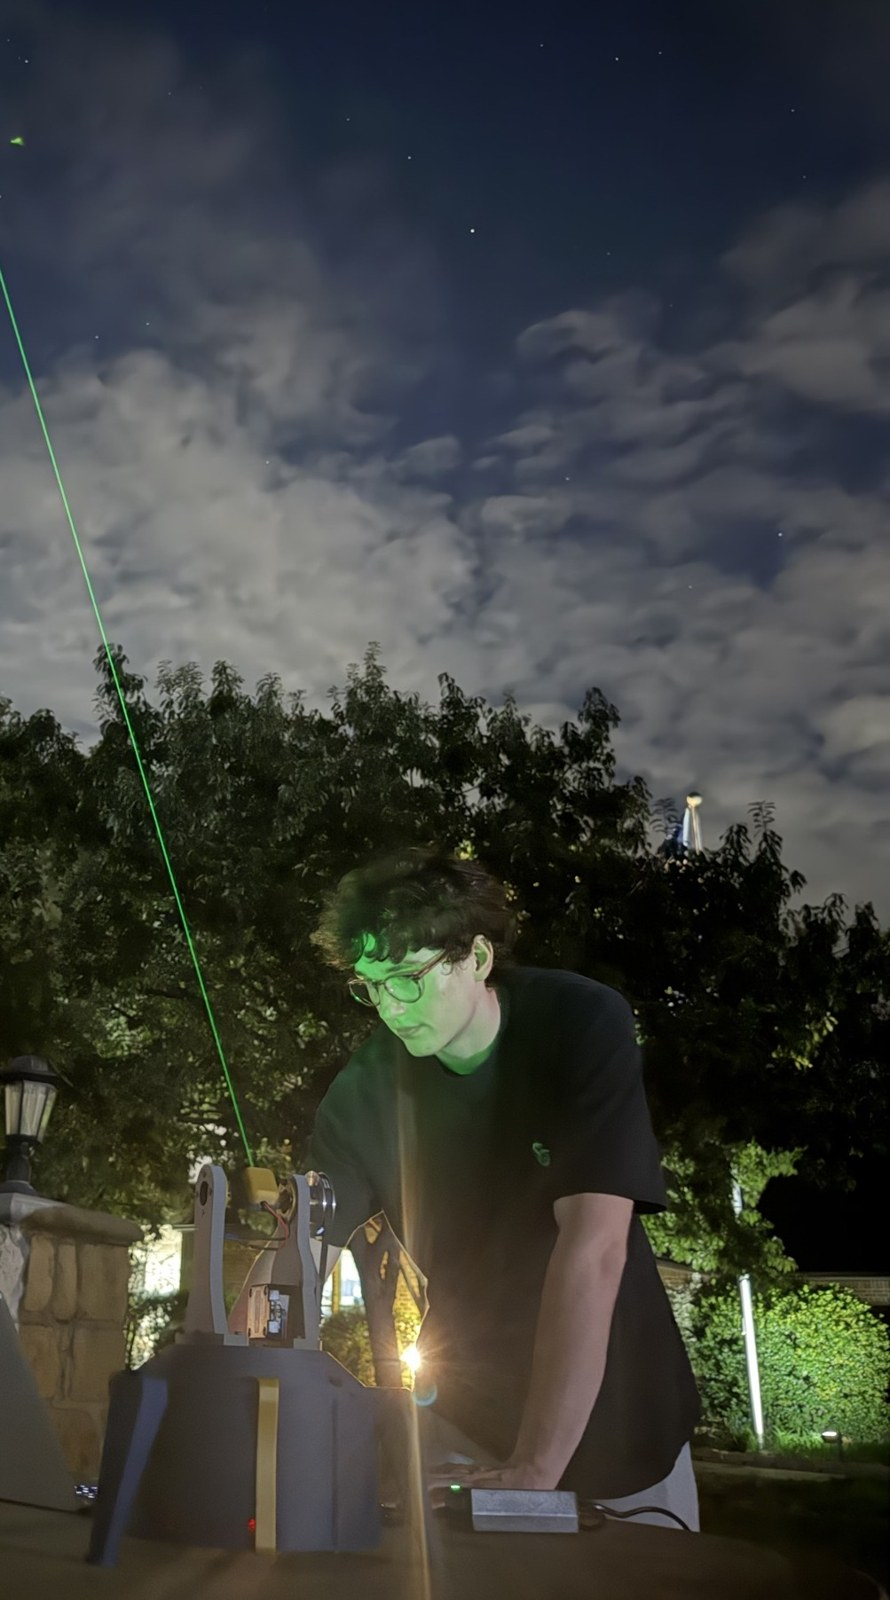
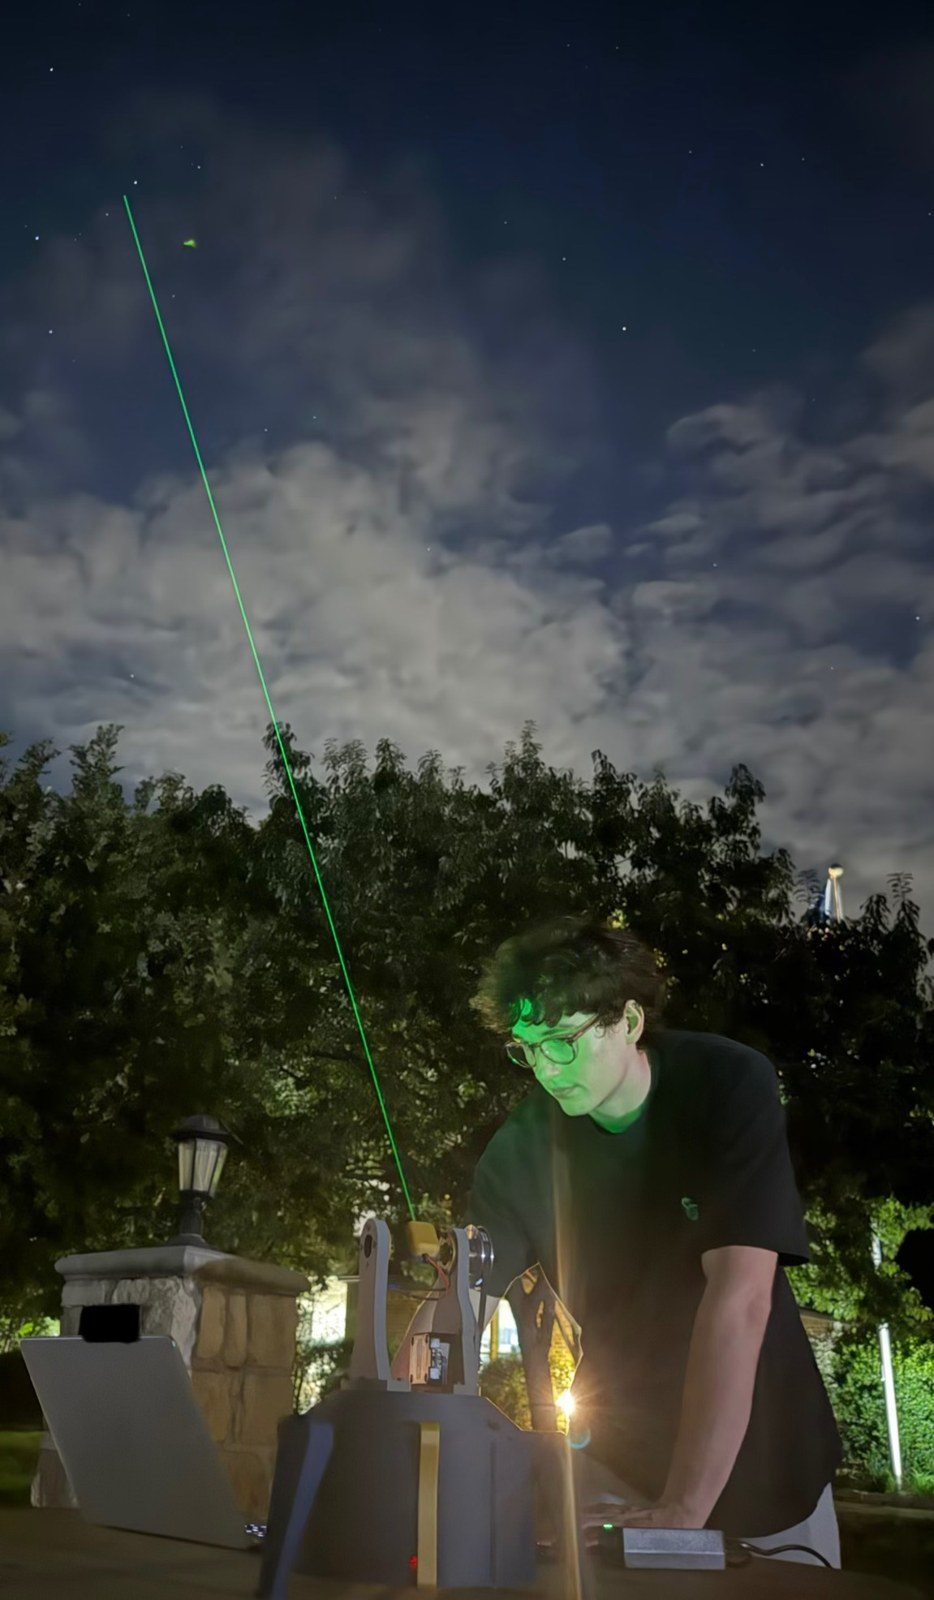
Swap operating photo

diff --git a/README.md b/README.md
@@ -23,7 +23,7 @@ libraries together.
 
 <p align="center">
   <img src="docs/images/v2-mount-angle.jpg" width="48%">
-  <img src="docs/images/v2-night-operating.jpg" width="36%">
+  <img src="docs/images/v2-night-operating.jpg" width="40%">
 </p>
 
 v1 proved out the firmware, the math and the first sky tests on an open
